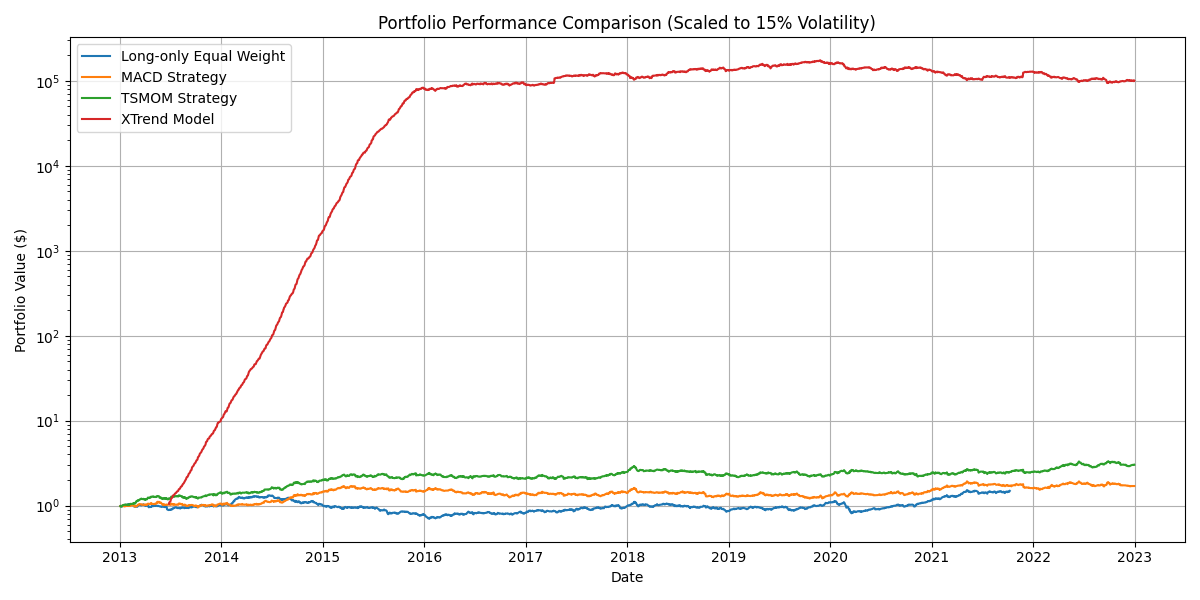
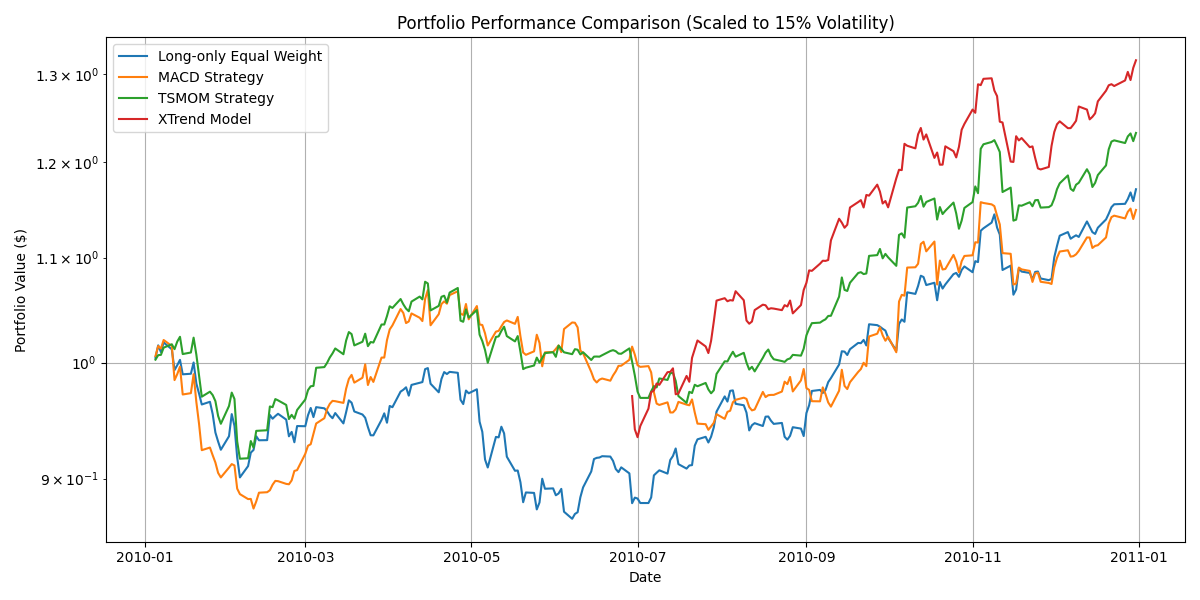
made validation more stable

diff --git a/src/backtester.py b/src/backtester.py
@@ -4,25 +4,24 @@ import numpy as np
 import matplotlib.pyplot as plt
 from typing import List, Tuple
 import torch
-from models.xtrend import XTrendModel
-from dataset import XTrendDataset
+from src.models.xtrend import XTrendModel
+from src.dataset import XTrendDataset, FEATURE_COLS, PINNACLE_ASSETS
 from torch.utils.data import DataLoader
 from tqdm import tqdm, trange
 from torch.utils.data import Dataset
 import datetime as dt
 
-from dataset import PINNACLE_ASSETS
-from train import TRAIN_START, TRAIN_END
+from src.train import TRAIN_START, TRAIN_END, EVAL_START, EVAL_END, EMBEDDING_DIM, D_H, N_HEADS, DROPOUT, WARMUP_PERIOD_LEN
 
 DATA_DIR = "dataset/CLCDATA"  # Adjust path as needed
-TEST_START = dt.datetime(2013, 1, 1)
-EXTENDED_START_DATE = dt.datetime(2012, 1, 1)
-TEST_END = dt.datetime(2023, 1, 1)
+TEST_START = EVAL_START
+EXTENDED_START_DATE = EVAL_START.replace(year=EVAL_START.year - 1)
+TEST_END = EVAL_END
 TARGET_VOL = 0.15  # Target annual volatility
 VOL_LOOKBACK = 60
 TRAIN_STRIDE = 1
 BATCH_SIZE = 512
-MODEL_PATH = "runs/model.pth"
+MODEL_PATH = "runs/final_model.pth"
 
 def load_single_asset(symbol):
     filepath = os.path.join(DATA_DIR, f"{symbol}_RAD.CSV")
@@ -215,21 +214,14 @@ def collate_with_metadata(batch):
 
 def backtest_xtrend():
     device = torch.device("cuda" if torch.cuda.is_available() else "cpu")
-    hidden_dim = 64
     model = XTrendModel(
-        x_dim=8,
-        y_dim=1,
-        static_dim=8,
-        encoder_hidden_dim=hidden_dim,
-        vsn_dim=hidden_dim,
-        ffn_dim=hidden_dim,
-        lstm_hidden_dim=hidden_dim,
-        n_heads=4,
-        sharpe_dim=1,
-        mle_dim=1,
-        self_attention_type="ptmultihead",
-        cross_attention_type="ptmultihead",
-        dropout=0.5
+        num_features=len(FEATURE_COLS),
+        num_embeddings=len(PINNACLE_ASSETS),
+        embedding_dim=EMBEDDING_DIM,
+        d_h=D_H,
+        n_heads=N_HEADS,
+        dropout=DROPOUT,
+        warmup_period_len=WARMUP_PERIOD_LEN
     ).to(device)
     model.load_state_dict(torch.load(MODEL_PATH, map_location=device))
     model.eval()
@@ -278,21 +270,14 @@ def backtest_xtrend():
 
 def single_backtest_xtrend():
     device = torch.device("cuda" if torch.cuda.is_available() else "cpu")
-    hidden_dim = 64
     model = XTrendModel(
-        x_dim=8,
-        y_dim=1,
-        static_dim=8,
-        encoder_hidden_dim=hidden_dim,
-        vsn_dim=hidden_dim,
-        ffn_dim=hidden_dim,
-        lstm_hidden_dim=hidden_dim,
-        n_heads=4,
-        sharpe_dim=1,
-        mle_dim=1,
-        self_attention_type="ptmultihead",
-        cross_attention_type="ptmultihead",
-        dropout=0.5
+        num_features=len(FEATURE_COLS),
+        num_embeddings=len(PINNACLE_ASSETS),
+        embedding_dim=EMBEDDING_DIM,
+        d_h=D_H,
+        n_heads=N_HEADS,
+        dropout=DROPOUT,
+        warmup_period_len=WARMUP_PERIOD_LEN
     ).to(device)
     model.load_state_dict(torch.load("runs\\runs\\model_state_final.pth", map_location=device))
     model.eval()

diff --git a/src/train.py b/src/train.py
@@ -1,4 +1,3 @@
-from pandas.core.groupby.groupby import T
 import torch
 import numpy as np
 import os
@@ -14,14 +13,14 @@ TRAIN_STRIDE = 1
 TRAIN_START = dt.datetime(1995, 1, 1)
 TRAIN_END = dt.datetime(2010, 1, 1)
 EVAL_START = dt.datetime(2010, 1, 1)
-EVAL_END = dt.datetime(2012, 1, 1)
+EVAL_END = dt.datetime(2011, 1, 1)
 BATCH_SIZE = 512
 ITERATIONS = 200
-LR = 1e-3
+LR = 1e-4
 TRAIN_SUBSET_FRACTION = 0.5
 EARLY_STOPPING_PATIENCE = 10
 D_H = 32
-EMBEDDING_DIM = 8
+EMBEDDING_DIM = 4
 N_HEADS = 4
 DROPOUT = 0.5
 WARMUP_PERIOD_LEN = 63
@@ -84,14 +83,20 @@ def training_loop():
             dataset.set_mode("eval")
             eval_dataloader = DataLoader(dataset, batch_size=BATCH_SIZE, shuffle=False)
             eval_sharpes = []
-            eval_pbar = tqdm(eval_dataloader, desc=f"EVAL {it} | Sharpe: N/A", leave=False)
-            for eval_batch in eval_pbar:
-                eval_batch = {k: v.to(device) for k, v in eval_batch.items() if isinstance(v, torch.Tensor)}
-                eval_sharpe_loss, _ = model.evaluate(eval_batch)
-                current_eval_sharpe = -eval_sharpe_loss.item()
-                eval_sharpes.append(current_eval_sharpe)
-                avg_eval_sharpe = np.nanmean(eval_sharpes)
-                eval_pbar.set_description(f"EVAL {it} | Sharpe: {avg_eval_sharpe:7.4f}")
+
+            for run_idx in range(10):
+                eval_pbar = tqdm(eval_dataloader, desc=f"EVAL Run {run_idx+1}/10 | Sharpe: N/A", leave=False)
+                current_run_sharpes = [] # Temporary list for current run's sharpes
+                for eval_batch in eval_pbar:
+                    eval_batch = {k: v.to(device) for k, v in eval_batch.items() if isinstance(v, torch.Tensor)}
+                    eval_sharpe_loss, _ = model.evaluate(eval_batch)
+                    current_eval_sharpe = -eval_sharpe_loss.item()
+                    current_run_sharpes.append(current_eval_sharpe)
+
+                    avg_eval_sharpe_this_run = np.nanmean(current_run_sharpes)
+                    eval_pbar.set_description(f"EVAL Run {run_idx+1}/10 | Sharpe: {avg_eval_sharpe_this_run:7.4f}")
+
+                eval_sharpes.extend(current_run_sharpes)
 
             avg_epoch_eval_sharpe = np.mean(eval_sharpes)
             all_valid_sharpes.append(avg_epoch_eval_sharpe)
